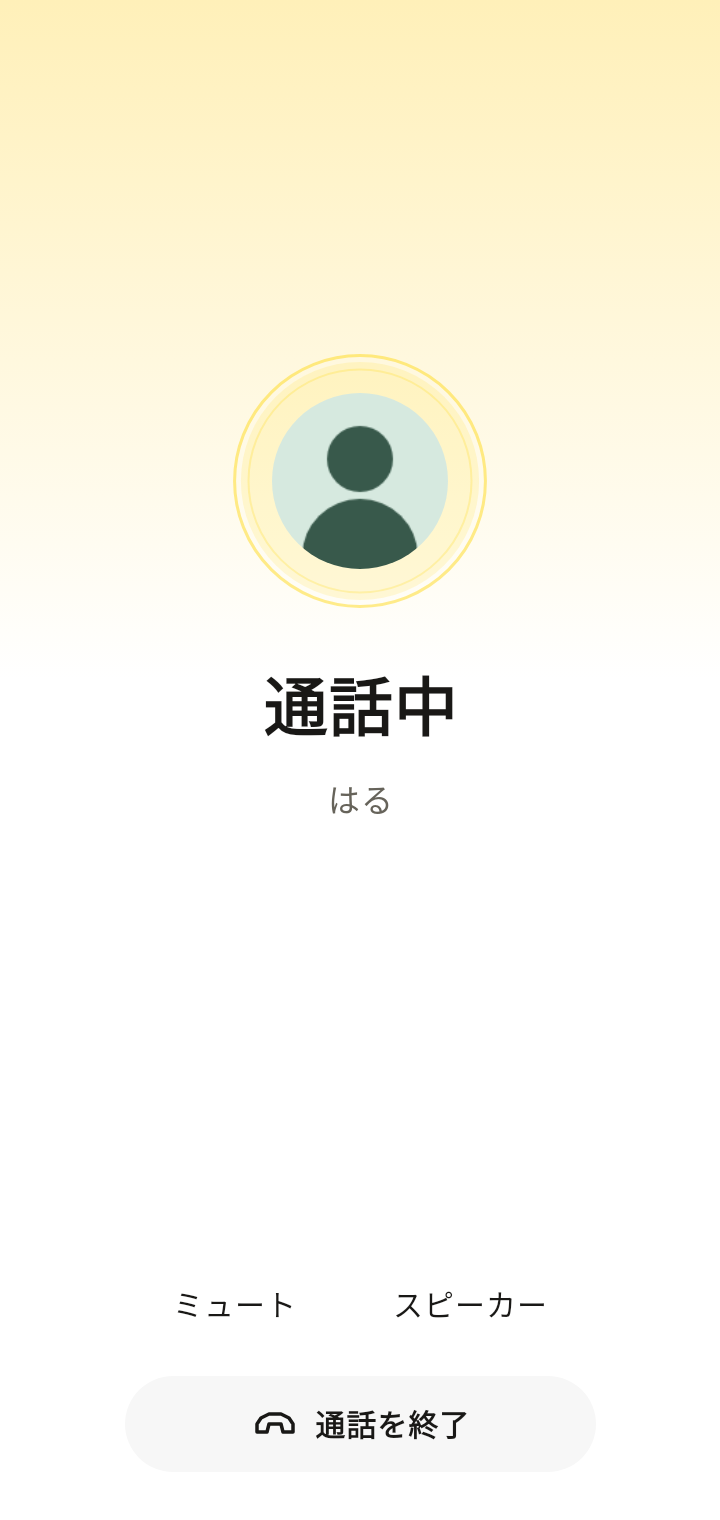
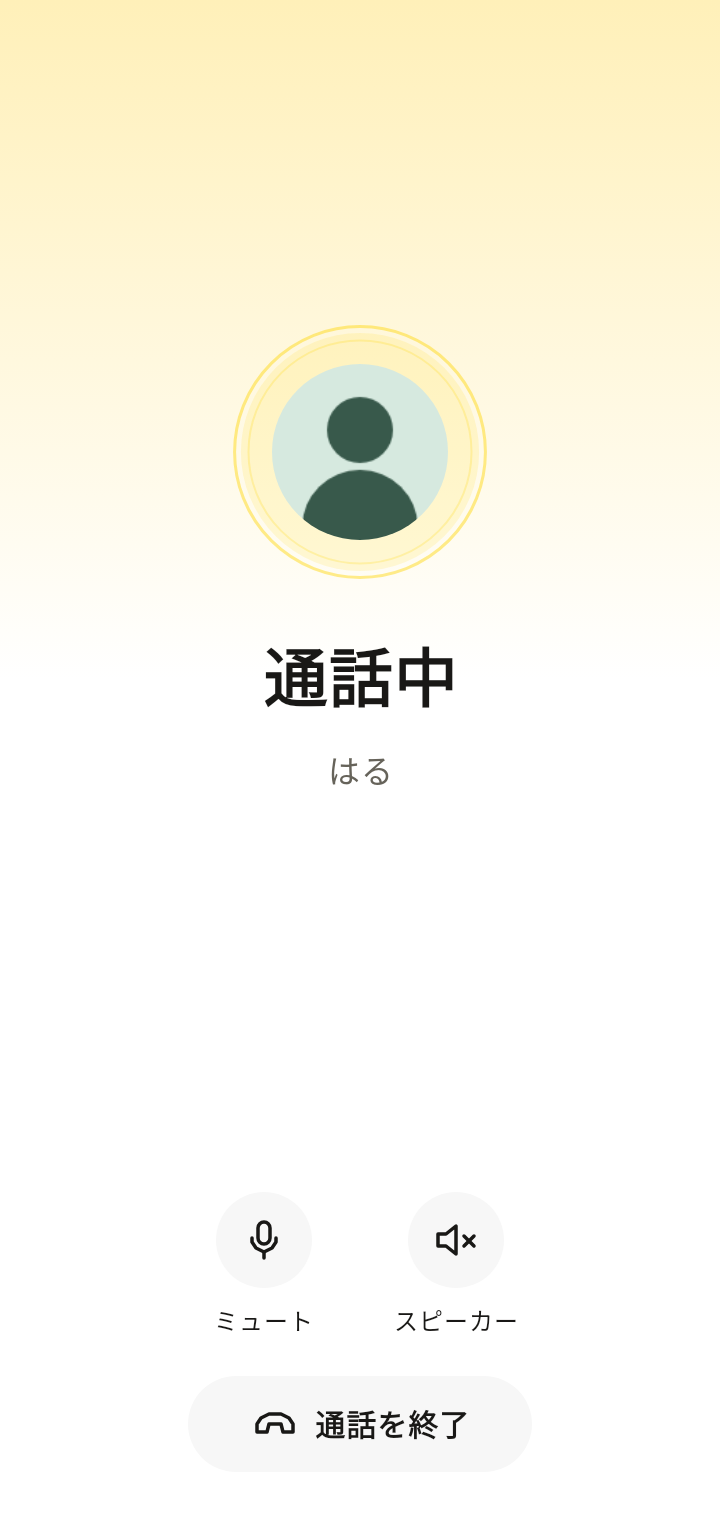
Android のミュート・スピーカー操作に状態別アイコンを追加する

diff --git a/frontend-compose/androidApp/src/main/kotlin/zoo/android/ui/CallAvatar.kt b/frontend-compose/androidApp/src/main/kotlin/zoo/android/ui/CallAvatar.kt
@@ -9,7 +9,13 @@ import androidx.compose.animation.core.tween
 import androidx.compose.foundation.Canvas
 import androidx.compose.foundation.Image
 import androidx.compose.foundation.background
+import androidx.compose.foundation.selection.toggleable
+import androidx.compose.foundation.layout.Arrangement
 import androidx.compose.foundation.layout.Box
+import androidx.compose.foundation.layout.Column
+import androidx.compose.foundation.layout.heightIn
+import androidx.compose.foundation.layout.padding
+import androidx.compose.foundation.layout.widthIn
 import androidx.compose.foundation.layout.size
 import androidx.compose.foundation.shape.CircleShape
 import androidx.compose.material3.Text
@@ -17,9 +23,11 @@ import androidx.compose.runtime.Composable
 import androidx.compose.ui.Alignment
 import androidx.compose.ui.Modifier
 import androidx.compose.ui.draw.clip
+import androidx.compose.ui.graphics.Color
 import androidx.compose.ui.graphics.drawscope.Stroke
 import androidx.compose.ui.layout.ContentScale
 import androidx.compose.ui.platform.testTag
+import androidx.compose.ui.semantics.Role
 import androidx.compose.ui.unit.dp
 import androidx.compose.ui.unit.sp
 import kotlin.math.sqrt
@@ -72,5 +80,23 @@ internal fun CallAvatar(
             }
             else -> ZooBadge(colors, modifier)
         }
+    }
+}
+
+@Composable
+internal fun CallToggle(label: String, icon: UiIcon, active: Boolean, colors: AndroidColors, toggle: () -> Unit) {
+    Column(
+        Modifier.widthIn(min = 76.dp).heightIn(min = AndroidControlSize.target)
+            .toggleable(active, role = Role.Switch) { toggle() }.padding(vertical = 4.dp),
+        horizontalAlignment = Alignment.CenterHorizontally,
+        verticalArrangement = Arrangement.spacedBy(4.dp),
+    ) {
+        Box(
+            Modifier.size(AndroidControlSize.target).background(if (active) colors.accent else colors.inputSurface, CircleShape),
+            contentAlignment = Alignment.Center,
+        ) {
+            UiGlyph(icon, if (active) Color.Black else colors.foreground)
+        }
+        Text(label, color = colors.foreground, fontSize = 12.sp, fontWeight = AndroidWeights.label)
     }
 }

diff --git a/frontend-compose/androidApp/src/main/kotlin/zoo/android/ui/UiIcon.kt b/frontend-compose/androidApp/src/main/kotlin/zoo/android/ui/UiIcon.kt
@@ -33,7 +33,7 @@ internal object AndroidControlSize {
 }
 
 internal enum class UiIcon {
-    Back, Next, Home, Channels, Bell, Bubble, Settings, Send, Attach, Format, Emoji, Create, Document, Copy, Phone, PhoneOff, Delete, Repost, Search, External,
+    Back, Next, Home, Channels, Bell, Bubble, Settings, Send, Attach, Format, Emoji, Create, Document, Copy, Phone, PhoneOff, Delete, Repost, Search, External, Mic, MicOff, Speaker, SpeakerOff,
 }
 
 @Composable
@@ -124,6 +124,23 @@ internal fun UiGlyph(icon: UiIcon, color: Color) {
             UiIcon.Copy -> {
                 lines(5 to 16, 3 to 16, 3 to 3, 16 to 3, 16 to 5)
                 lines(8 to 8, 21 to 8, 21 to 21, 8 to 21, 8 to 8)
+            }
+            UiIcon.Mic, UiIcon.MicOff -> {
+                drawRoundRect(color, topLeft = point(9f, 3f), size = Size(size.width / 4f, size.height * .46f),
+                    cornerRadius = androidx.compose.ui.geometry.CornerRadius(size.width / 8f), style = Stroke(width))
+                lines(6 to 11, 6 to 13, 8 to 16, 12 to 18, 16 to 16, 18 to 13, 18 to 11)
+                lines(12 to 18, 12 to 21)
+                if (icon == UiIcon.MicOff) lines(3 to 3, 21 to 21)
+            }
+            UiIcon.Speaker, UiIcon.SpeakerOff -> {
+                lines(3 to 9, 7 to 9, 12 to 5, 12 to 19, 7 to 15, 3 to 15, 3 to 9)
+                if (icon == UiIcon.Speaker) {
+                    lines(16 to 9, 17 to 12, 16 to 15)
+                    lines(19 to 6, 21 to 9, 21 to 15, 19 to 18)
+                } else {
+                    lines(16 to 10, 21 to 15)
+                    lines(21 to 10, 16 to 15)
+                }
             }
             UiIcon.Phone -> lines(
                 5 to 3, 9 to 3, 11 to 8, 8 to 10, 10 to 14, 14 to 16, 16 to 13,

diff --git a/frontend-compose/androidApp/src/main/kotlin/zoo/android/ui/AndroidScreens.kt b/frontend-compose/androidApp/src/main/kotlin/zoo/android/ui/AndroidScreens.kt
@@ -325,11 +325,11 @@ private fun RenderAndroidScreen(
                 },
             ) {
                 Column(Modifier.width(IntrinsicSize.Max), verticalArrangement = Arrangement.spacedBy(12.dp)) {
-                    if (screen.active) Row(Modifier.fillMaxWidth(), horizontalArrangement = Arrangement.Center) {
-                        TextAction(if (screen.muted) "ミュートを解除" else "ミュート", colors, style = TextActionStyle.Plain) {
+                    if (screen.active) Row(Modifier.fillMaxWidth(), horizontalArrangement = Arrangement.spacedBy(20.dp, Alignment.CenterHorizontally)) {
+                        CallToggle("ミュート", if (screen.muted) UiIcon.MicOff else UiIcon.Mic, screen.muted, colors) {
                             dispatch(AndroidUiAction.MuteCall)
                         }
-                        TextAction(if (screen.speaker) "スピーカーをオフ" else "スピーカー", colors, style = TextActionStyle.Plain) {
+                        CallToggle("スピーカー", if (screen.speaker) UiIcon.Speaker else UiIcon.SpeakerOff, screen.speaker, colors) {
                             dispatch(AndroidUiAction.SpeakerCall)
                         }
                     }

diff --git a/frontend-compose/ui-preview/src/test/kotlin/zoo/android/ui/AndroidSamplesTest.kt b/frontend-compose/ui-preview/src/test/kotlin/zoo/android/ui/AndroidSamplesTest.kt
@@ -176,6 +176,10 @@ class AndroidSamplesTest {
                     check(answer.left == hangUp.left && answer.right == hangUp.right &&
                         hangUp.top - answer.bottom == 12.dp) { "Incoming call actions should align: $answer / $hangUp" }
                 }
+                if (name == "call-active") {
+                    ui.onNodeWithText("ミュート").assertIsOff()
+                    ui.onNodeWithText("スピーカー").assertIsOff()
+                }
                 if (example is AndroidScreen.Call) {
                     if (example.active) ui.mainClock.advanceTimeBy(150)
                     ui.onNodeWithTag("call-avatar").assertWidthIsEqualTo(88.dp).assertHeightIsEqualTo(88.dp)
